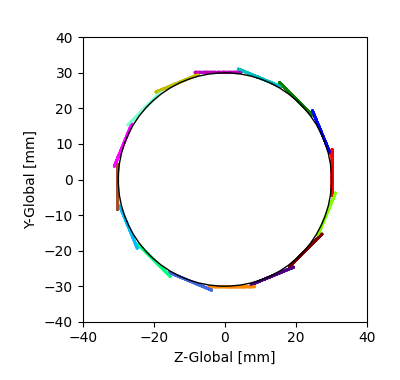
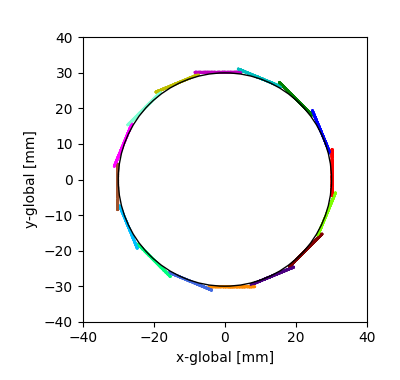
lower cased x- y- and z- global in module layout plots

Changed region(s): [[0.42, 0.9263, 0.69, 0.9553], [0.06, 0.3474, 0.09, 0.6079]]

diff --git a/paperPlots/moduleLayoutPlot.py b/paperPlots/moduleLayoutPlot.py
@@ -34,8 +34,8 @@ def plotHitsXY(sig,pltStandalone=True,pltShow=True,alpha = 1,figsize=(4,3.8)):
     circle=plt.Circle((0,0), 30, fill=0, color='k', label="Barrel")
     ax.add_patch(circle)
     ax.set_title("Hits in the barrel xy-plane")
-    ax.set_xlabel("Z-Global [mm]")
-    ax.set_ylabel("Y-Global [mm]")
+    ax.set_xlabel("x-global [mm]")
+    ax.set_ylabel("y-global [mm]")
     ax.set_xlim(-40,40)
     ax.set_ylim(-40,40)
     plt.tight_layout()
@@ -60,8 +60,8 @@ def plotRZPlane(sig,figsize=(4,1.5)):
     # plt.subplot(212)
     # plt.scatter(sig['hit_z'],sig["hit_r"],s=1,c=colors, label="Signal hits") #to confirm that hit_z is the same as z-global
     plt.ylim([0,60])
-    plt.xlabel("Z-Global [mm]")
-    plt.ylabel("Radius [mm]")
+    plt.xlabel("z-global [mm]")
+    plt.ylabel("radius [mm]")
 
     plt.tight_layout()
     plt.savefig("ModuleLayoutRZ.png")
